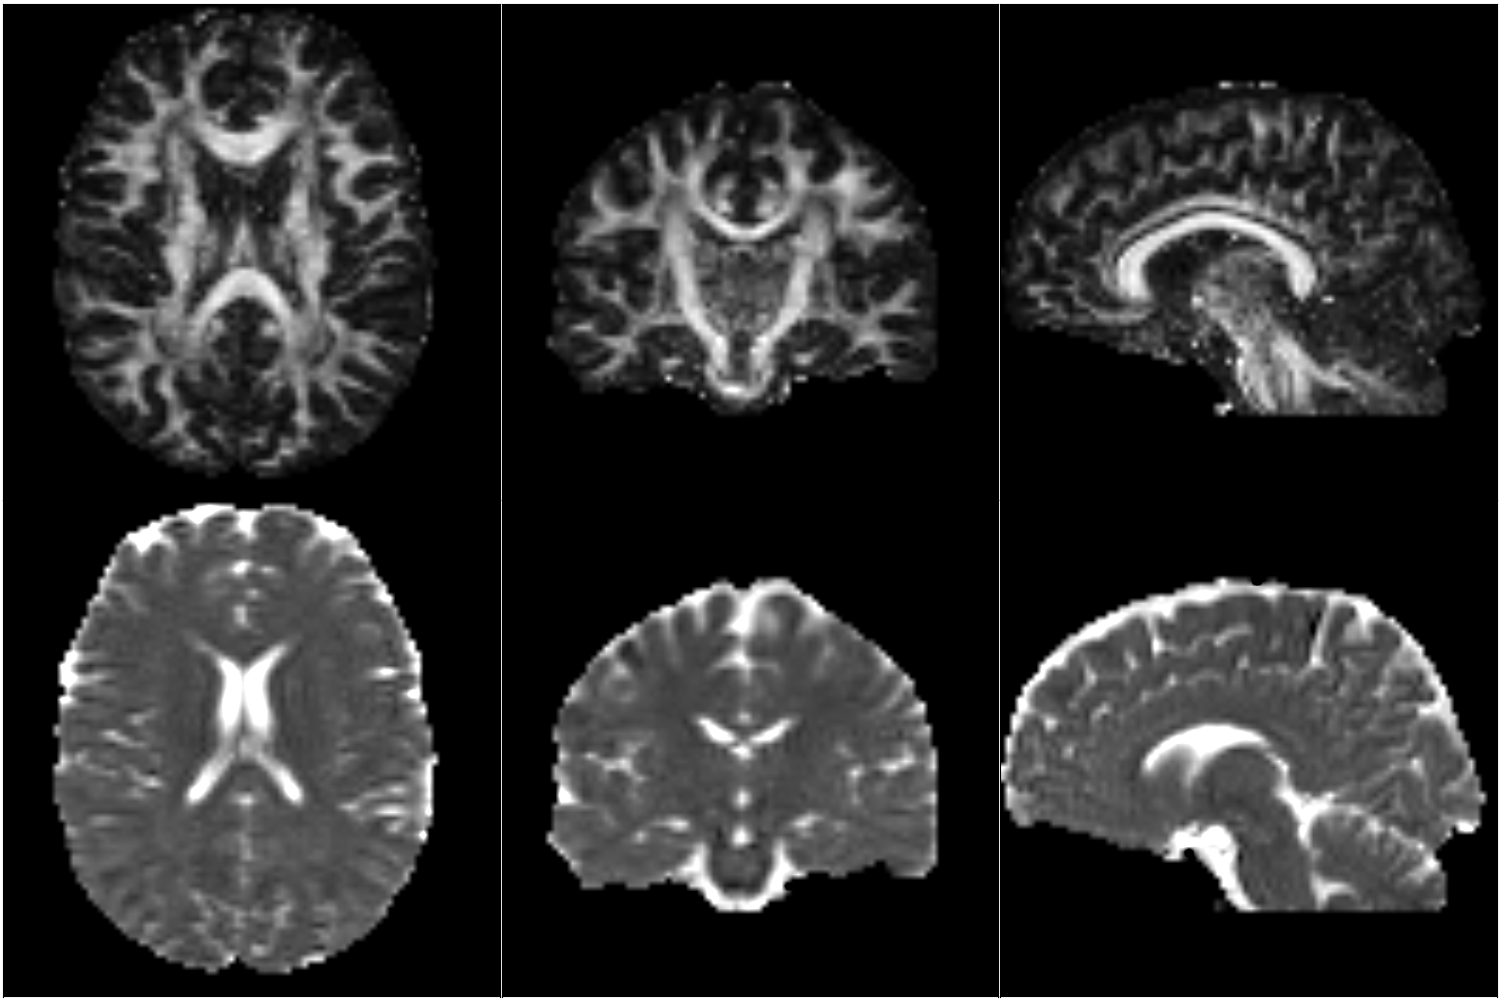
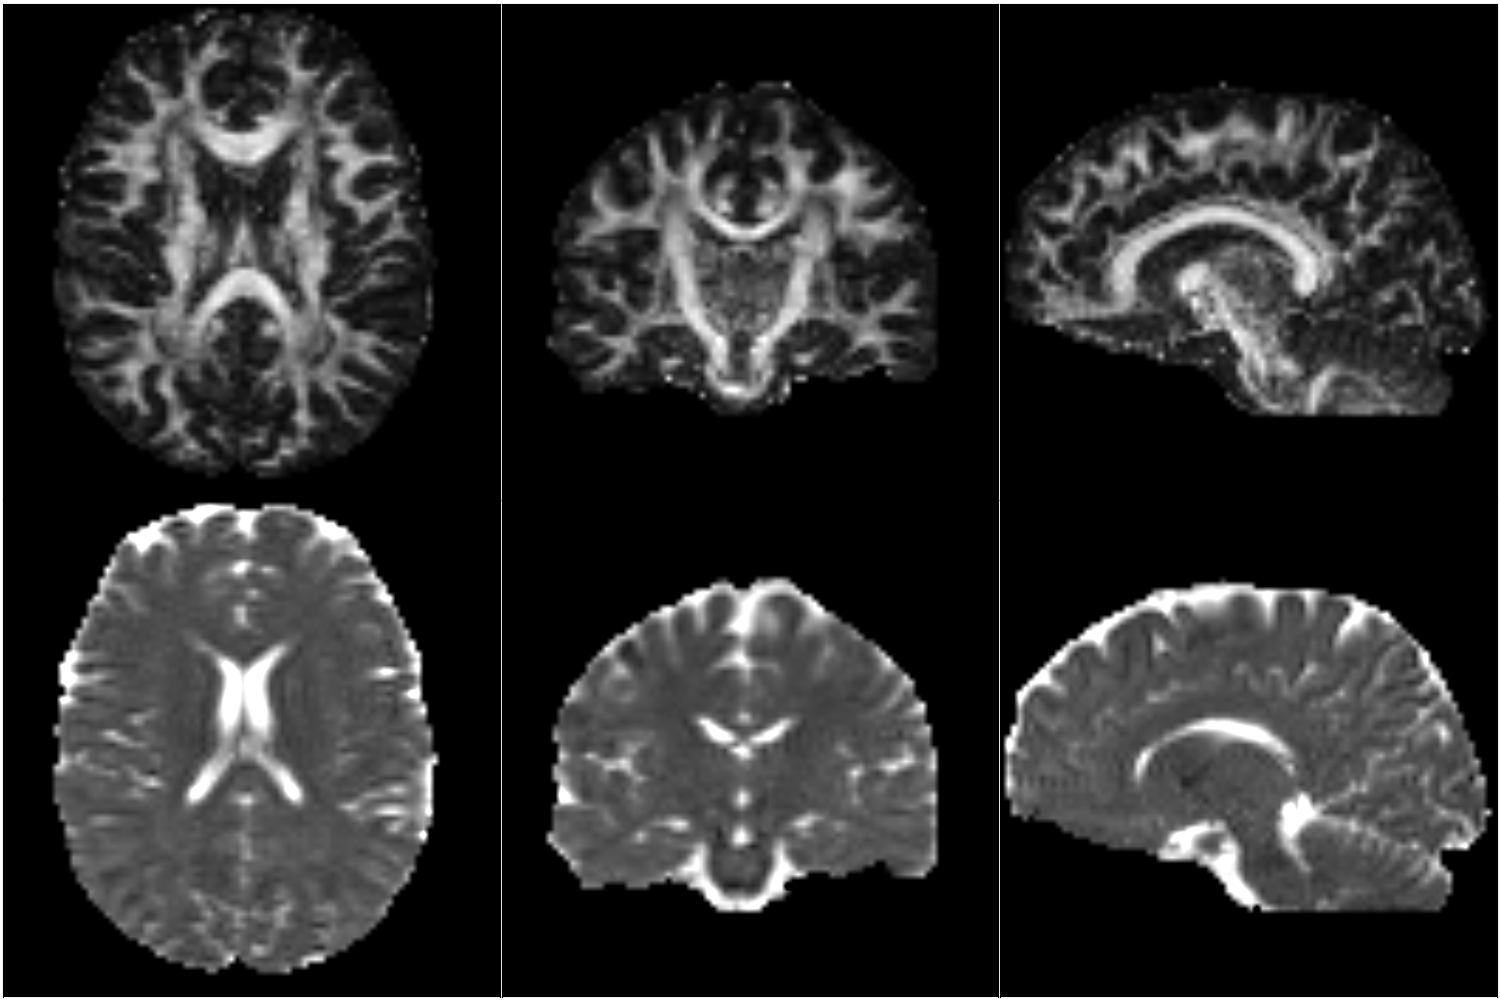
finished touching up results and methods sections, only the abstract to write

Changed region(s): [[0.6747, 0.062, 1.0, 0.434], [0.644, 0.558, 1.0, 0.93]]

diff --git a/manuscript/manuscript.tex b/manuscript/manuscript.tex
@@ -380,8 +380,8 @@ initialisation.
 Workflows are implemented in Arcana as a series of pipelines, which
 each perform a unit of the analysis (e.g. registration, brain
 extraction, quantitative susceptibility mapping). Pipelines are represented by \emph{Pipeline} objects,
-which are thin wrappers around Nipype workflows to handle input/output
-connections and namespace management. Each pipeline consists of a
+which are thin wrappers around Nipype workflows to handle input and output
+connections, and namespace management. Each pipeline consists of a
 (typically small) graph of Nipype nodes, with each node wrapping a stand alone tool
 (e.g. FSL's FLIRT) or analysis package function (e.g. SPM's \emph{coreg}
 tool). Pipelines source their inputs from, and sink their outputs to, entries
@@ -395,7 +395,8 @@ arguments (e.g. \lstinline{my_pipeline(self, **name_maps)}), and these arguments
 should be passed as a dictionary directly to the \emph{name\_maps} argument
 of the pipeline initialisation to enable inputs and outputs of the
 pipeline to be rerouted to alternative data specifications in modified constructor
-methods, typically in subclasses and multi-studies.
+methods, typically in subclasses and multi-studies (see
+\emph{Extension and specialisation by class inheritance} and \emph{Implementing multi-modal studies}).
 
 \begin{figure}
 \lstinputlisting[firstline=61, basicstyle=\footnotesize]{listings/example_study.py}
@@ -411,14 +412,14 @@ inputs and outputs of the pipeline onto different data specifications.}
 \end{figure}
 
 The syntax for pipeline construction is inspired by a proposed form for Nipype v2.0
-(\href{http://github.com/nipy/nipype/issues/2539}{http://github.com/nipy/nipype/issues/2539}).
-Within a pipeline constructor, the Pipeline object is initialised by the \emph{pipeline} method
-of the Study (Figure \ref{fig:pipeline_constructor}). At initialisation, each pipeline is given a name,
+(\url{github.com/nipy/nipype/issues/2539}).
+Within a pipeline constructor method, a Pipeline object is constructed by the \emph{Study.pipeline} method
+(Figure \ref{fig:pipeline_constructor}). At initialisation, each pipeline is given a name,
 which must be unique amongst the pipelines constructed by the Study. The methods implemented
 by the pipeline can be characterised by providing a the list of scientific references
 and a text description to the \emph{references} and \emph{desc} keyword arguments, respectively.
 
-The \emph{add(name, interface)} method is used to add a node to a pipeline, which takes
+The \emph{add(name, interface)} method is used to add a node to a pipeline and takes
 a unique name for the node (within the pipeline) and a Nipype Interface object, and returns
 a reference to the newly added node. For clarity, is recommended to put all static inputs
 (i.e. parameters) of the interface as keyword arguments of the interface constructor
@@ -431,14 +432,15 @@ arguments take a dictionary, where the keys of the dictionary are the names of t
 values of the dictionary are 2-tuples each consisting of the name of a data specification
 and the format the pipeline expects the data in (i.e. a FileFormat for Fileset specifications or datatype
 for Field specifications). If the expected format does not match that of the corresponding data specification
-table or study input then an conversion nodes are implicitly connected to the pipeline.
-Inputs and outputs that are conditional on parameters of the study can be set outside of
-the \emph{add} method using the \emph{connect\_input} or
+or study input then a conversion node is implicitly connected to the pipeline.
+Inputs and outputs that are conditional on parameters or inputs provided to the
+study can be set outside of the \emph{add} method using the \emph{connect\_input} or
 \emph{connect\_output} methods, respectively.
 
-Internal connections between nodes within a pipeline are specified by a dictionary
-passed to the \emph{connect} keyword argument of the receiving node. The
-dictionary keys are the names of the receiving traits and the values are 2-tuples
+Connections between nodes are specified by a dictionary
+passed to the \emph{connect} keyword argument of the \emph{add} method
+that creates the receiving node. The dictionary keys are the names of the
+receiving traits and the values are 2-tuples
 consisting of the sending node and the name of the sending trait. Alternatively,
 conditional connections can be specified via the \emph{connect} method of the
 pipeline, which simply calls the method of the same name in the underlying
@@ -446,35 +448,32 @@ Nipype workflow.
 
 Any external software packages required by a node should be referenced
 in the \emph{requirements} keyword argument as a list of
-\emph{Requirement} objects when the node added to the pipeline. These
-requirements can be used by the Processor to configure environment
-modules \citep{furlani_modules:_1991}, to ensure the required software
-packages are available. Similarly, the expected memory requirements and
-wall time for the node execution should be provided to the keyword args
-\emph{memory}, and \emph{wall\_time} so they can be inserted into HPC
-scheduler job scripts if required.
+\emph{Requirement} objects when the node added to the pipeline.
+Similarly, the expected memory requirements and
+wall time for the node execution should be provided to the keyword arguments
+\emph{memory}, and \emph{wall\_time}.
 
 Iteration over subjects and visits is handled implicitly by Arcana and
 depends on the frequency of the pipeline's inputs and outputs. To create
 a summary derivative (i.e. frequency != 'per\_session') from more frequent
 data, \emph{Study.SUBJECT\_ID} or \emph{Study.VISIT\_ID} should be
-passed to the \emph{joinsource} keyword to join over subjects or visits, respectively.
+passed to the \emph{joinsource} keyword of the \emph{add} method to join over subjects or visits, respectively.
 In this case, a JoinNode will be created instead of standard Node,
 which should be passed the additional keyword argument \emph{joinfield} to
 specify the list of input traits to convert into lists to receive the joined input.
 Similarly, if the name of an input trait is provided (or list thereof) to the the \emph{iterfield}
 keyword argument, then a MapNode will be created and the interface will
 be applied to all items of the list connected to that input \citep{gorgolewski_nipype:_2011}.
-The subject and visit IDs are directly accessible as input fields of the pipeline
+Additionally, the values of the subject and visit IDs are directly accessible as input fields of the pipeline
 named \emph{Study.SUBJECT\_ID} and \emph{Study.VISIT\_ID}, respectively.
 
 Study parameters can be accessed during pipeline construction with the
-\emph{parameter(name)} method. If conditional logic is included in
+\emph{Study.parameter(name)} method. If conditional logic is included in
 the workflow construction that alters the pipeline inputs, outputs or
 parameters then it should be controlled by a switch instead of a
 parameter. The analysis branch designated by a switch value should be
-tested with \emph{branch(name)} in the case of boolean switches and
-\emph{branch(name, ref\_value)} in the case of string switches.
+tested with \emph{Study.branch(name)} in the case of boolean switches and
+\emph{Study.branch(name, ref\_value)} in the case of string switches.
 
 \subsubsection*{Extension and specialisation by class inheritance}
 \label{extension-and-specialisation-by-class-inheritance}
@@ -508,8 +507,7 @@ also pass the the wildcard keyword arguments of the overriding method to the
 overriding method to be overridden in turn.
 
 
-\subsubsection*{Implementing multi-modal
-studies}
+\subsubsection*{Implementing multi-modal studies}
 \label{implementing-multi-modal-studies}
 
 While basic Study classes are typically associated with single image
@@ -868,23 +866,37 @@ reprocessed and otherwise an exception will be raised.
 
 \subsubsection*{Environment modules}
 
-The software packages installed on the system are detected and managed
-by the Environment module. There are currently two types of available Environment modules:
+The software packages installed on the system that are required by a study's
+workflows (e.g. FSL, SPM) are detected and managed by
+the Environment object passed to the study at initialisation.
+There are currently two types of Environment class implemented in Arcana:
 \emph{StaticEnvironment} and \emph{ModulesEnvironment}.
 
-The \emph{StaticEnvironment} module doesn't perform any management, and instead
-only checks the existing environment for appropriate software versions before running
-the analysis.
-
-The \emph{ModulesEnvironment} module can be used if environment
+\emph{ModulesEnvironment} objects can be used if environment
 modules \citep{furlani_modules:_1991} are installed on the system (typical in many
-HPC environments). In this case, modules are loaded before a workflow node is run,
+HPC systems). In this case, environment modules are loaded before a workflow node is run,
 based on the requirements specified for the node during construction of the pipeline
 (see \emph{Pipeline constructors}), and then unloaded afterwards. Mappings from non-standard
-module names installed on the system to requirements required by the Study can be
-can be passed to the \emph{packages\_map} keyword argument of the ModulesEnvironment
-at initialisation. Likewise non-standard versions for packages can be mapped onto requirements
-using the \emph{versions\_map} keyword argument.
+module names installed on the system to those expected by the Study can be
+can be passed as a dictionary to the \emph{packages\_map} keyword argument
+at initialisation. Likewise non-standard versions for packages can be mapped onto
+requirements using the \emph{versions\_map} keyword argument.
+
+\emph{StaticEnvironment} objects don't actively manage the environment,
+and instead only check the current environment for appropriate software
+versions before running requested workflows.
+
+\subsection*{Acquisition of test dataset}
+
+A healthy volunteer was scanned using a 3T Siemens Skyra with a 32-channel head
+and neck coil to demonstrate the application of analyses implemented in
+Arcana. The protocol was a T1-weighted MPRAGE (1mm contiguous,
+matrix size 256x240x192, FOV 256x240x192, TE = 2.13ms, TR, = 2300ms, TI
+= 900ms, bandwidth=230Hz/pixel), GRE (1.8 mm contiguous, matrix size
+256x232x72, FOV 230x208x130, TE = 20ms, TR, = 30ms,
+bandwidth=120Hz/pixel), and diffusion MRI (1.2 mm contiguous, matrix size
+110x100x60, FOV 256x240x192, TE = 95ms, TR, = 8200ms, 33 diffusion
+directions with b=1500 mm2/s and 3 b=0, bandwidth=781Hz/pixel).
 
 \section*{Results}
 \label{results}
@@ -898,9 +910,6 @@ implemented as part of the \emph{Biomedical imAgiNg ANAlysis (Banana)} package
 All three classes, \emph{T1Study}, \emph{T2starStudy} and
 \emph{DmriStudy}, inherit generic image analysis methods, such as
 registration and brain extraction, from the base class \emph{MriStudy}.
-The T1Study and T2starStudy classes are aggregated into the
-\emph{T2starT1Study} MultiStudy class to combine analysis of T2* and
-T1-weighted contrasts.
 
 The DmriStudy class implements diffusion tensor metrics, FA and ADC, as
 well as global tractography using streamlines tracking from the MRtrix
@@ -922,11 +931,11 @@ derivatives: FA and ADC and/or streamlines fibre tracking.}
 \label{fig:dmri_study}
 \end{figure*}
 
-The \emph{T2starT1Study} class implements an algorithm to generate
-\emph{composite vein images} from the combination of QSM and SWI
-contrasts derived from the T2*-weighted acquisition with an vein atlas
-registered to the T1-weighted acquisition \citep{ward_combining_2018}.
-(Figure \ref{fig:t2star_t1_study}).
+The \emph{T2starStudy} class implements an algorithm to generate
+\emph{composite vein images} \citep{ward_combining_2018} and
+vein masks \citep{ward_vein_2017} from the combination of QSM and SWI
+contrasts derived from the T2*-weighted acquisition with vein atlases
+derived from manual tracings (Figure \ref{fig:t2star_t1_study}).
 
 \begin{figure*}
 	\centering
@@ -951,29 +960,28 @@ combined with the composite vein image to produce the vein mask.}
 \label{fig:t2star_t1_study}
 \end{figure*} 
 
-The DiffusionStudy and T2starT1Study classes are further aggregated in
-turn into a single MultiStudy class for the results section of this
-manuscript\emph{, ArcanaPaper}, (Supplementary material). Methods are
-implemented in ArcanaPaper to generate and display the derivative
-images in Figure \ref{fig:veins}, \ref{fig:fa_adc} and \ref{fig:tractography}.
+The T1Study, T2starStudy and DmriStudy classes are
+aggregated into a single MultiStudy class,
+\emph{ArcanaPaper} (Supplementary material), which is specialised to produce
+the figures in the Results section of this manuscript. In order to warp the
+prior vein atlases to the subject space in the generation of the composite vein images,
+nonlinear registration to Montreal Neurological Institute templates
+\citep{mni-cite} is performed in the T1Study. The transform and warp
+field from this registration are then mapped onto the `coreg\_to\_atlas\_mat` and
+`coreg\_to\_atlas\_warp' specifications in the T2starStudy, instead
+of registering the T2*-weighted images directly, in order to improve the registration.
+These transforms were used to produce the composite vein
+image in conjuction with the linear transform from the brain-extracted T2*-weighted
+magnitude image to the brain extracted T1-weighted image, which required the
+`brain' specification in the T1Study to be mapped to the `coreg\_ref\_brain`
+specification in the T2starStudy.
 
-To test the analysis workflows implemented in ArcanaPaper, a healthy
-volunteer was scanned using a 3T Siemens Skyra with a 32-channel head
-and neck coil. The protocol was a T1-weighted MPRAGE (1mm contiguous,
-matrix size 256x240x192, FOV 256x240x192, TE = 2.13ms, TR, = 2300ms, TI
-= 900ms, bandwidth=230Hz/pixel), GRE (1.8 mm contiguous, matrix size
-256x232x72, FOV 230x208x130, TE = 20ms, TR, = 30ms,
-bandwidth=120Hz/pixel), diffusion MRI (1.2 mm contiguous, matrix size
-110x100x60, FOV 256x240x192, TE = 95ms, TR, = 8200ms, 33 diffusion
-directions with b=1500 mm2/s and 3 b=0, bandwidth=781Hz/pixel).
-Methods for Figure \ref{fig:veins}, \ref{fig:fa_adc}, and \ref{fig:tractography} in
-the ArcanaPaper class were applied to the acquired dataset to using the
-\emph{SlurmProcessor} to submit jobs to the the MASSIVE HPC cluster
-\citep{goscinski_multi-modal_2014} in order to generate the figures.
-
-Figure \ref{fig:veins} displays composite vein images for the healthy
-volunteer along with the SWI and QSM intermediate derivatives and the
-input vein atlas. The derived vein images are comparable to those
+The \emph{vein\_fig}, \emph{fa\_adc\_fig} and \emph{tractography\_fig} methods
+implemented in the ArcanaPaper class were applied to the test dataset to produce
+Figure \ref{fig:veins}, \ref{fig:fa_adc}, and \ref{fig:tractography}, respectively.
+Figure \ref{fig:veins} displays composite vein images and vein masks for the healthy
+volunteer along with the SWI and QSM intermediate derivatives.
+The derived vein images are comparable to those
 generated by the original implementation \citep{ward_combining_2018}.
 
 \begin{figure*}
@@ -983,7 +991,7 @@ generated by the original implementation \citep{ward_combining_2018}.
   combining susceptibility weighted imaging (SWI) (\emph{top row}),
   quantitative susceptibility mapping (QSM) (\emph{second row})
   and a vein atlas from manual tracings. A vein mask was then
-  generated (\emph{bottom row}) by thresholding the composite
+  generated (\emph{bottom row}) from the composite
   vein image.
   \emph{left column}: axial slices. \emph{centre column}: coronal slices.
   \emph{right column}: sagittal slices.}
@@ -995,6 +1003,12 @@ acquisition. The FA map shows high intensity in known white matter
 tracts and low intensities in known grey matter regions. The ADC map
 shows high intensity in cortical spinal fluid and low intensity through
 the rest of the brain.
+Figure \ref{fig:tractography} displays the global tractography derived from the dMRI
+acquisition. The streamlines follow well known white matter tracts such
+as the cortico-spinal, fasciculus and corpus callosum. Intermediate
+derivatives derived for the FA and ADC analysis, including the
+preprocessed and bias-corrected dMRI image and a whole brain mask, were
+reused in the generation of the streamlines.
 
 \begin{figure*}
     \centering
@@ -1007,13 +1021,6 @@ sagittal midline slices.}
 \label{fig:fa_adc}
 \end{figure*}
 
-Figure \ref{fig:tractography} displays the global tractography derived from the dMRI
-acquisition. The streamlines follow well known white matter tracts such
-as the cortico-spinal, fasciculus and corpus callosum. Intermediate
-derivatives derived for the FA and ADC analysis, including the
-preprocessed and bias-corrected dMRI image and a whole brain mask, were
-reused in the generation of the streamlines reducing the time taken to
-produce the tractography results from ?? to ??.
 
 \begin{figure*}
     \centering
@@ -1138,7 +1145,7 @@ Docker container is available on Docker Hub,
 (\url{hub.docker.com/r/monashbi/banana}), which can be used as a
 base for biomedical imaging analysis containers. In future versions of Arcana,
 additional Environment modules could be implemented to run each pipeline
-node within its own container if required to take advantage of
+node within its own container to take advantage of
 containers maintained by tool developers (e.g. 
 \url{hub.docker.com/r/vistalab/freesurfer/}).
 

diff --git a/arcana_paper.py b/arcana_paper.py
@@ -31,7 +31,7 @@ class ArcanaPaper(MultiStudy, ImageDisplayMixin,
 
     add_param_specs = [
         ParameterSpec(
-            'dmri_fig_slice_offset', (4, 0, 0),
+            'dmri_fig_slice_offset', (6, 0, 0),
             desc=("Offset the sagittal slices of dMRI figures so they "
                   "intersect a cerebral hemisphere instead of the "
                   "midline between the hemispheres"))]
@@ -187,5 +187,5 @@ if __name__ == '__main__':
     # Derive required data and display them in a single step for each
     # figure.
     paper.vein_fig(op.join(args.fig_dir, 'veins.png'))
-#     paper.fa_adc_fig(op.join(args.fig_dir, 'fa_adc.png'))
-#     paper.tractography_fig(op.join(args.fig_dir, 'tractography.png'))
+    paper.fa_adc_fig(op.join(args.fig_dir, 'fa_adc.png'))
+    paper.tractography_fig(op.join(args.fig_dir, 'tractography.png'))
